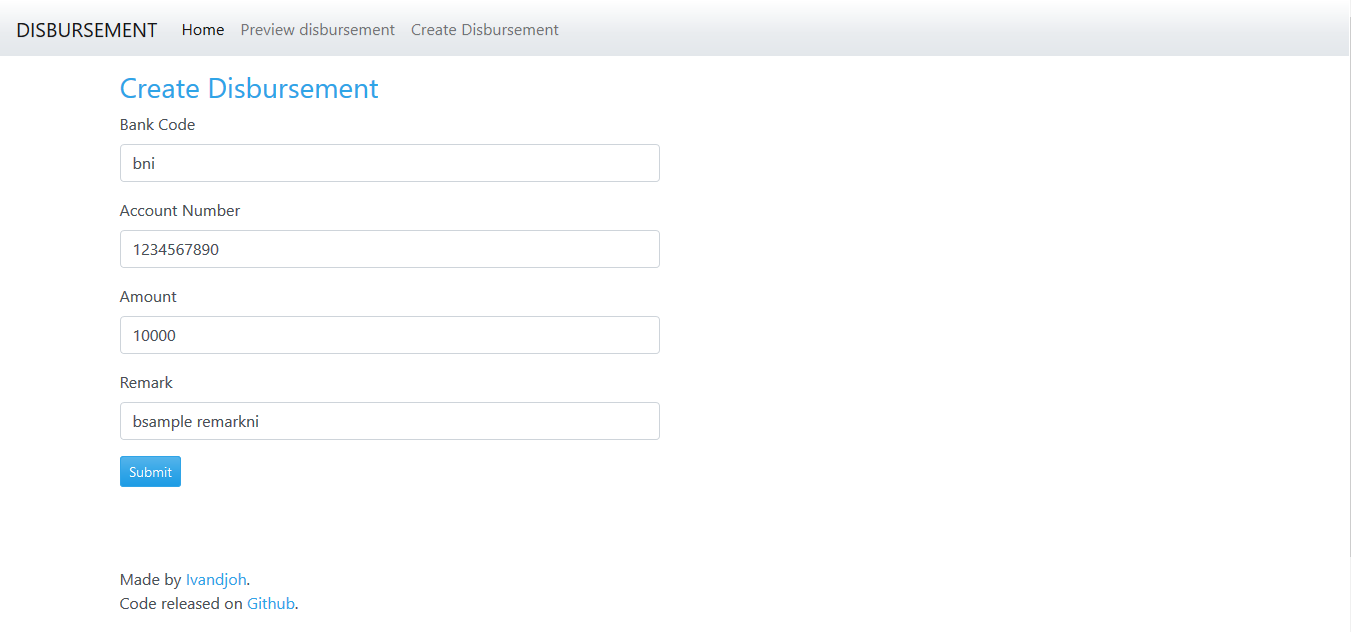
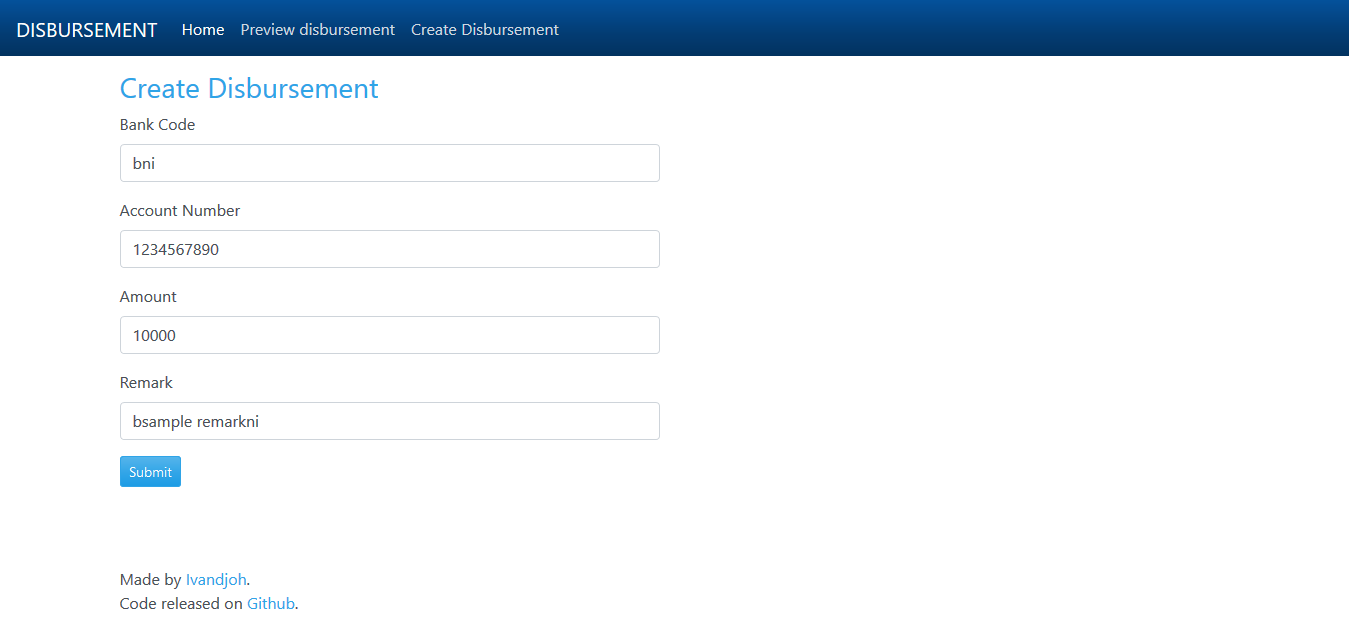
modified header and replace captured

diff --git a/src/views/Index/Index.php b/src/views/Index/Index.php
@@ -2,7 +2,8 @@
 <div class="container">
     <div class="jumbotron">
         <h3 class="display-5">DISBURSEMENT</h3>
-        <p class="lead">This is a Small Services that Connected to 3rd party is called slightly-big Flip. The purpose of this Services is to send the disbursement data to the 3rd party API (slightly-big Flip).</p>
+        <p class="lead">This is a Small Services that Connected to 3rd party API called slightly-big Flip. 
+        <br />The purpose of this Services is to send the disbursement data to the 3rd party API (slightly-big Flip) & save it to the DB</p>
         <hr class="my-4">
         <p class="lead">
             <a class="btn btn-primary btn-sm" href="<?= URLROOT; ?>/public/list" role="button">Preview Disbursement</a>

diff --git a/src/views/include/header.php b/src/views/include/header.php
@@ -11,7 +11,7 @@
 </head>
 
 <body>
-    <nav class="navbar navbar-expand-lg fixed-top navbar-light bg-light">
+    <nav class="navbar navbar-expand-lg fixed-top navbar-dark bg-dark">
         <a class="navbar-brand" href="<?= URLROOT; ?>/public">DISBURSEMENT</a>
         <button class="navbar-toggler" type="button" data-toggle="collapse" data-target="#navbarColor03" aria-controls="navbarColor03" aria-expanded="false" aria-label="Toggle navigation">
             <span class="navbar-toggler-icon"></span>
